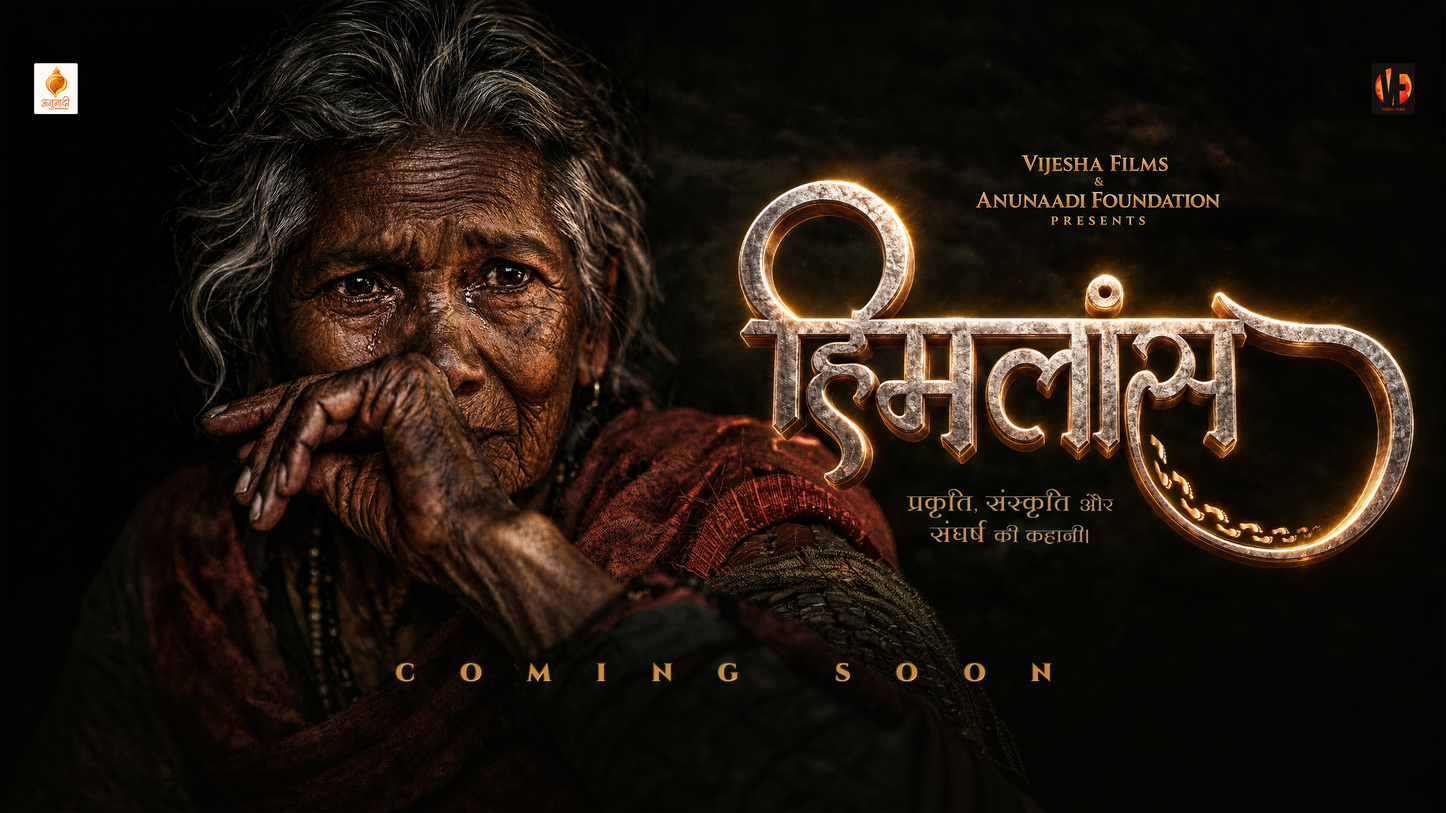
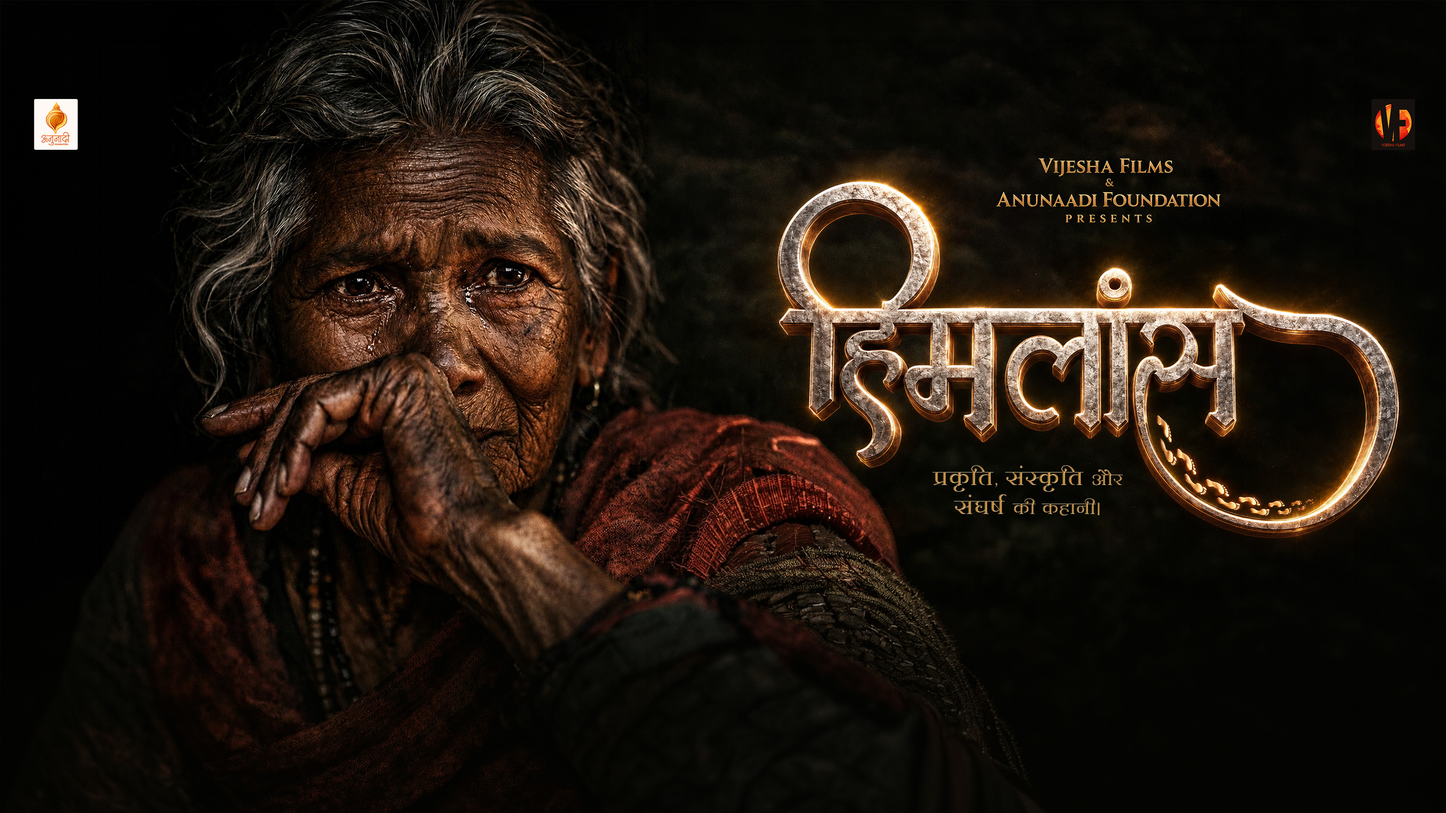
changes

diff --git a/src/components/About.tsx b/src/components/About.tsx
@@ -13,7 +13,7 @@ export default function About() {
               height="2752"
             />
           </picture>
-          <div className="about-visual-accent"></div>
+          {/* <div className="about-visual-accent"></div> */}
           <div className="about-visual-label">Est. 2019</div>
         </div>
 
